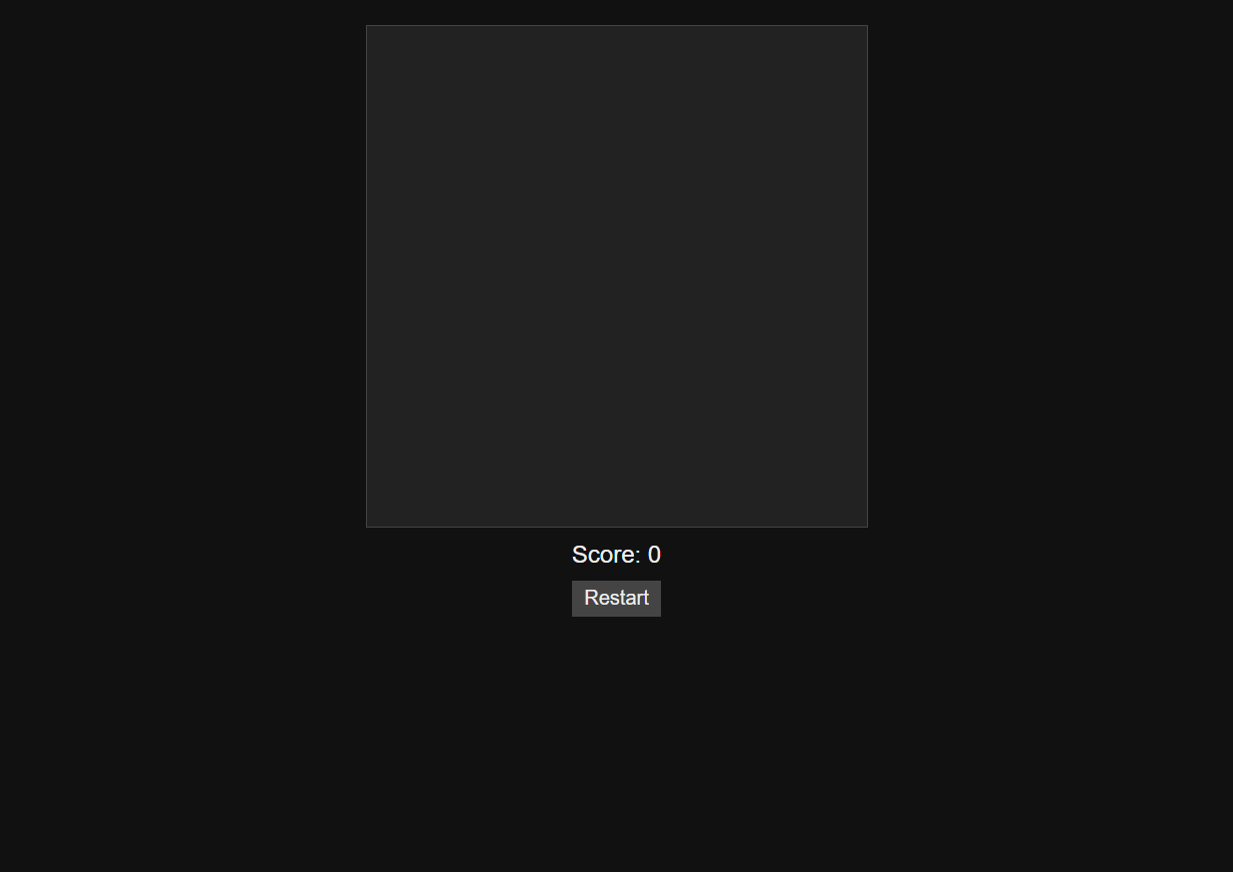
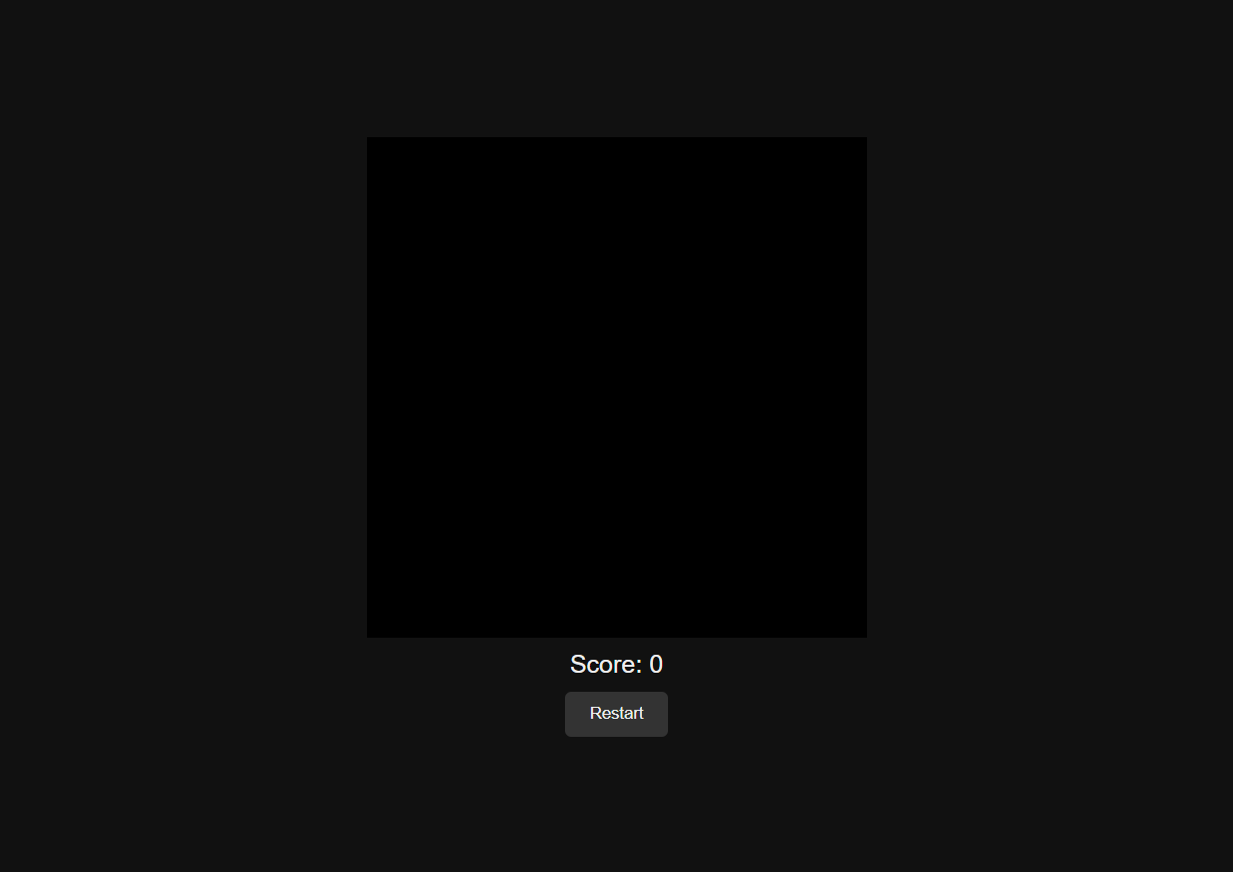
Team contract lists every element id and shared global any task names
Groq Snake run: the canvas id was only in the HTML task, game.js guessed gameCanvas
and the page crashed. Regression test added.

Changed region(s): [[0.2774, 0.1548, 0.7088, 0.7122], [0.4315, 0.7431, 0.5547, 0.867]]

diff --git a/packages/agents/src/scheduler.ts b/packages/agents/src/scheduler.ts
@@ -195,7 +195,17 @@ export function splitForParallelism(plan: AgentPlan, workers: number): AgentPlan
  */
 export function parallelizeWithContract(plan: AgentPlan): AgentPlan {
   if (plan.tasks.length < 2) return plan
-  const contract = plan.tasks.map((t) => `- ${t.files.join(', ') || '(no files)'}: ${t.title}`).join(NL)
+  // Shared names must reach every task: in a Groq Snake run the canvas id (id="game") was only in the HTML task, the
+  // game.js worker guessed "gameCanvas", and the page crashed. Collect the element ids and window globals any task
+  // mentions and give the whole list to all of them.
+  const text = plan.tasks.map((t) => t.description).join(NL)
+  const ids = [...new Set([...text.matchAll(/\bid=["']([A-Za-z][\w-]*)["']/g)].map((m) => m[1]).concat([...text.matchAll(/(?:^|[\s(,])#([A-Za-z][\w-]*)\b/g)].map((m) => m[1])))]
+  const globals = [...new Set([...text.matchAll(/\bwindow\.([A-Za-z_$][\w$]*)/g)].map((m) => m[1]))]
+  const names = [
+    ids.length ? `- Element ids (use exactly these; never rename): ${ids.map((i) => `#${i}`).join(', ')}` : '',
+    globals.length ? `- Shared globals: ${globals.map((g) => `window.${g}`).join(', ')}` : ''
+  ].filter(Boolean)
+  const contract = [...plan.tasks.map((t) => `- ${t.files.join(', ') || '(no files)'}: ${t.title}`), ...names].join(NL)
   const assets = plan.tasks.flatMap((t) => t.files).filter((f) => /\.(js|mjs|css)$/i.test(f))
   const tasks = plan.tasks.map((t) => {
     if (t.description.includes('Team contract')) return { ...t, dependsOn: [] }

diff --git a/packages/agents/src/agents.test.ts b/packages/agents/src/agents.test.ts
@@ -194,6 +194,17 @@ describe('router runs disjoint tasks at once', () => {
     expect(p.tasks[0].description).toContain('index.html must load: score.js, style.css')
     expect(p.tasks[2].description).toContain('- score.js: Score')
   })
+  it('gives every task the element ids and globals any task names (Groq Snake: #game vs gameCanvas)', () => {
+    const plan = normalizePlan('snake', {
+      tasks: [
+        { id: 'html', title: 'Page', files: ['index.html'], description: 'Contains <canvas id="game"></canvas>, a #score div and a #restart button; calls window.game.reset().' },
+        { id: 'js', title: 'Logic', files: ['game.js'], description: 'Defines the game loop and rendering.' }
+      ]
+    })
+    const js = parallelizeWithContract(plan).tasks.find((t) => t.id === 'js')!.description
+    expect(js).toContain('#game, #score, #restart')
+    expect(js).toContain('window.game')
+  })
 })
 
 import { normalizeWriteArgs } from './tools'
